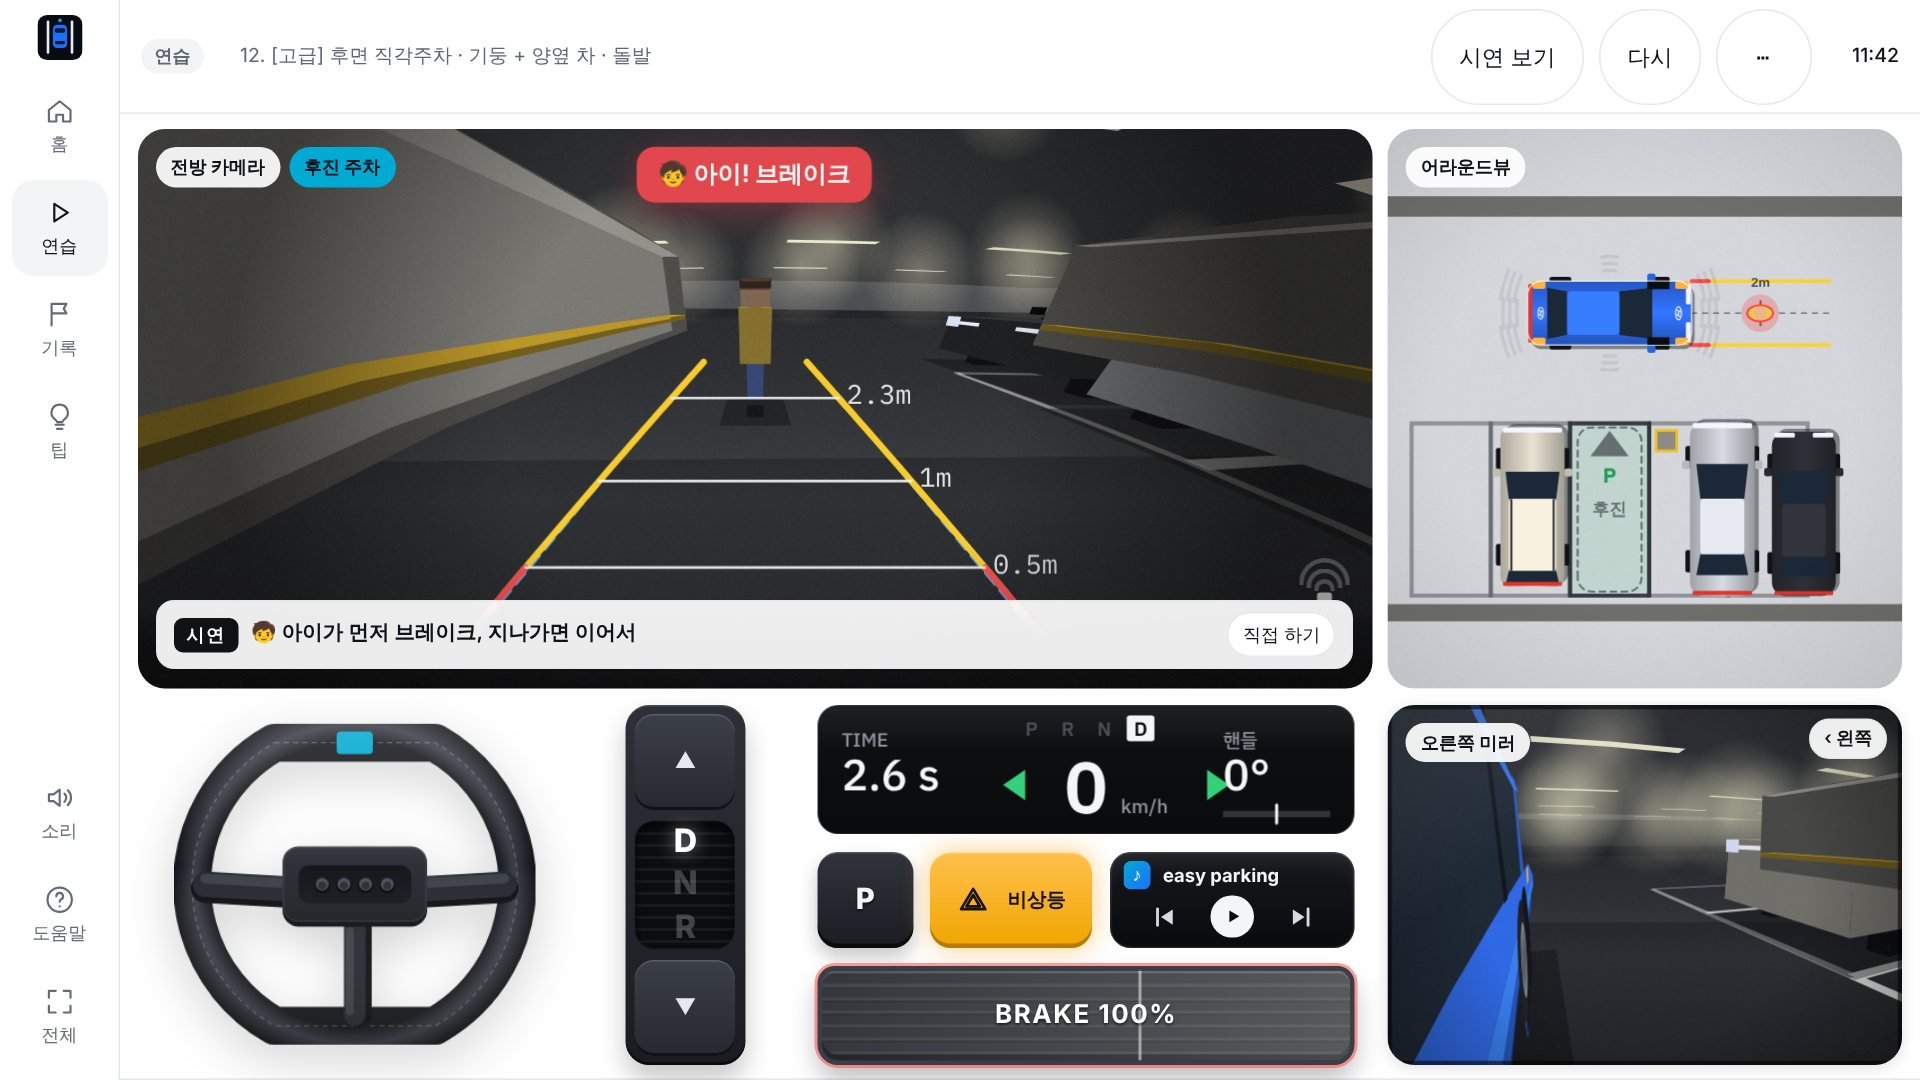
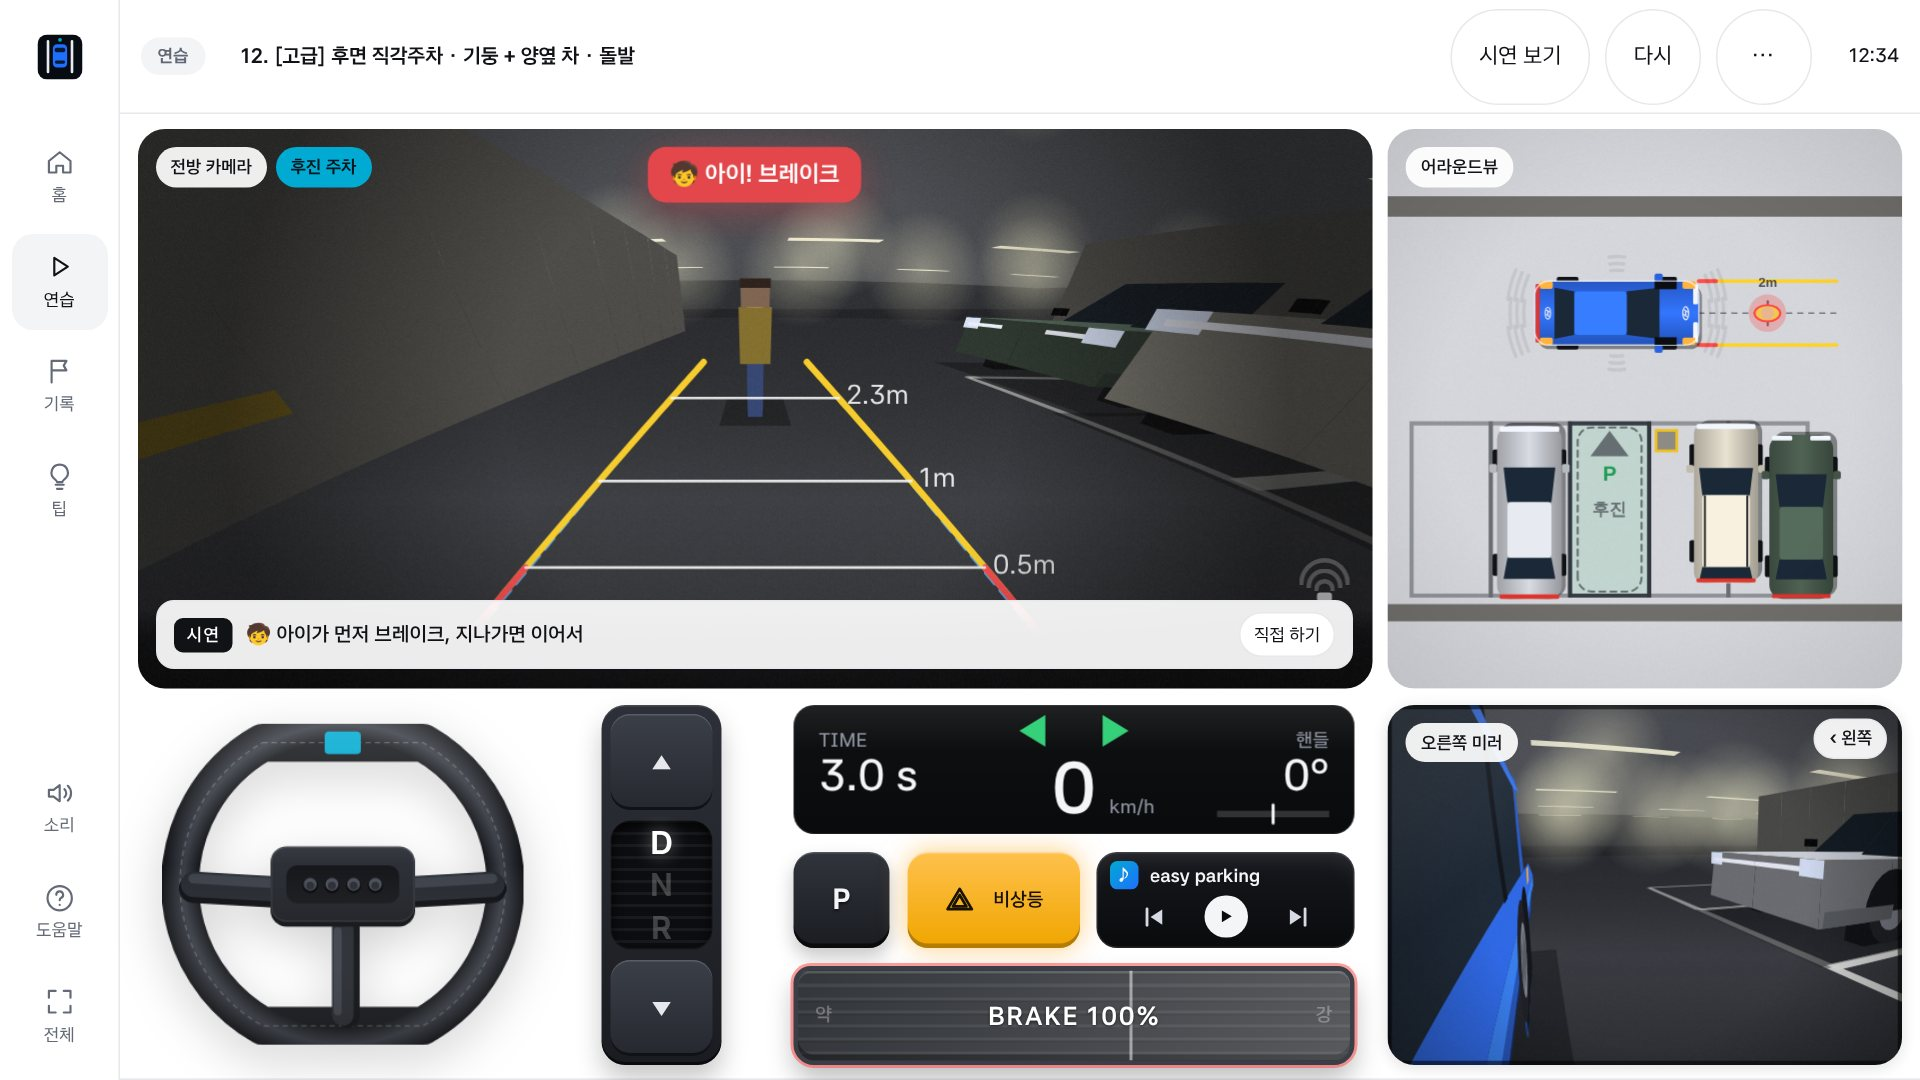
렌더링 다시 짬: 면 단위 정렬 · 전수 점검 스크립트 · 소개 페이지 첫 섹션 잘림
- 카메라·미러 3D: 차·벽·연석·기둥·사람의 모든 면을 모아 먼 것부터 그림(물체 중심 거리로 하나씩 그리던 방식이
  벽 뚫림·투시·떠다니는 바퀴를 낳았다), 긴 면은 1.2 m 조각, 면 위에 붙는 램프·바퀴·띠는 앞으로 보정, 보이는 면만
- tests/render-sweep.cjs: 15 스테이지 시연을 4 시점씩 찍어 모음 그림(고칠 때마다 사람이 먼저 본다)
- 소개 페이지: 히어로를 가로로만 잘라 목업 아래·칩이 잘리지 않게, 폰 가로 넘침(보행자 길) 막음
- 사진 6장 · 회색 후방카메라를 새 렌더링으로 다시 찍음

Claude-Session: https://claude.ai/code/session_01FzT5JMZgnQT3zngYysKg7k

diff --git a/site/preview/view.js b/site/preview/view.js
@@ -49,17 +49,21 @@
           if (fa >= 0) out.push(a); if ((fa >= 0) !== (fb >= 0)) { const t = fa / (fa - fb); out.push([a[0] + (b[0] - a[0]) * t, a[1] + (b[1] - a[1]) * t, a[2] + (b[2] - a[2]) * t]); } } }
       return out; }
     /** 잘린 다각형을 화면으로: 변을 카메라 좌표에서 잘게 나눠 하나씩 휘게(어안) 옮긴다 — 꼭짓점만 옮기고 곧은 선으로 이으면 가까운 차가 쐐기처럼 찢어진다(PM 2026-10-28 "자동차 렌더링 개판") */
-    proj(cl) { const out = []; for (let i = 0; i < cl.length; i++) { const a = cl[i], b = cl[(i + 1) % cl.length]; out.push(this.toScreen(a));
+    proj(cl) { const out = []; out.d = cl.length ? cl.reduce((s, p) => s + p[2], 0) / cl.length : 0; for (let i = 0; i < cl.length; i++) { const a = cl[i], b = cl[(i + 1) % cl.length]; out.push(this.toScreen(a));
         const len = Math.hypot(b[0] - a[0], b[1] - a[1], b[2] - a[2]), dmin = Math.max(this.P.near, Math.min(a[2], b[2])), n = Math.min(32, Math.max(1, Math.ceil(len / (dmin * 0.2))));
         for (let j = 1; j < n; j++) { const t = j / n; out.push(this.toScreen([a[0] + (b[0] - a[0]) * t, a[1] + (b[1] - a[1]) * t, a[2] + (b[2] - a[2]) * t])); } } return out; }
     poly(pts, z, sub) { const w = []; const m = sub || 6;
       for (let i = 0; i < pts.length; i++) { const a = pts[i], b = pts[(i + 1) % pts.length]; for (let j = 0; j < m; j++) { const t = j / m; w.push([a[0] + (b[0] - a[0]) * t, a[1] + (b[1] - a[1]) * t]); } }
       return this.proj(this.clipNear(w.map(p => this.toCam(p, z)))); }
-    quad(a, b, za, zb) { const w = []; const m = 6; for (let j = 0; j <= m; j++) { const t = j / m; w.push([a[0] + (b[0] - a[0]) * t, a[1] + (b[1] - a[1]) * t]); }
+    quad(a, b, za, zb) { const L = Math.hypot(b[0] - a[0], b[1] - a[1]), n = BUF ? Math.ceil(L / 1.2) : 1;
+      if (n > 1) { const out = []; out.parts = []; for (let k = 0; k < n; k++) { const t0 = k / n, t1 = (k + 1) / n, ip = t => [a[0] + (b[0] - a[0]) * t, a[1] + (b[1] - a[1]) * t]; const sv = BUF; BUF = null; const p = this.quad(ip(t0), ip(t1), za, zb); BUF = sv; out.parts.push(p); } return out; }
+      const w = []; const m = 6; for (let j = 0; j <= m; j++) { const t = j / m; w.push([a[0] + (b[0] - a[0]) * t, a[1] + (b[1] - a[1]) * t]); }
       const cam = w.map(p => this.toCam(p, za)).concat(w.slice().reverse().map(p => this.toCam(p, zb)));
       return this.proj(this.clipNear(cam)); }
     /** 아래 변 a→b(높이 za) 와 위 변 c→d(높이 zb) 가 다른 사각형 — 캐빈 유리처럼 기운 면 */
-    quad2(a, b, za, c, d, zb) { const m = 6, lo = [], hi = []; for (let j = 0; j <= m; j++) { const t = j / m; lo.push([a[0] + (b[0] - a[0]) * t, a[1] + (b[1] - a[1]) * t]); hi.push([c[0] + (d[0] - c[0]) * t, c[1] + (d[1] - c[1]) * t]); }
+    quad2(a, b, za, c, d, zb) { const L = Math.hypot(b[0] - a[0], b[1] - a[1]), n = BUF ? Math.ceil(L / 1.2) : 1;
+      if (n > 1) { const out = []; out.parts = []; const ip = (p, q, t) => [p[0] + (q[0] - p[0]) * t, p[1] + (q[1] - p[1]) * t]; for (let k = 0; k < n; k++) { const t0 = k / n, t1 = (k + 1) / n; const sv = BUF; BUF = null; out.parts.push(this.quad2(ip(a, b, t0), ip(a, b, t1), za, ip(c, d, t0), ip(c, d, t1), zb)); BUF = sv; } return out; }
+      const m = 6, lo = [], hi = []; for (let j = 0; j <= m; j++) { const t = j / m; lo.push([a[0] + (b[0] - a[0]) * t, a[1] + (b[1] - a[1]) * t]); hi.push([c[0] + (d[0] - c[0]) * t, c[1] + (d[1] - c[1]) * t]); }
       return this.proj(this.clipNear(lo.map(p => this.toCam(p, za)).concat(hi.reverse().map(p => this.toCam(p, zb))))); }
     path(pts, z) { const n = this.P.near, cam = pts.map(p => this.toCam(p, z || 0)), segs = []; for (let i = 1; i < cam.length; i++) { const a = cam[i - 1], b = cam[i], ia = a[2] >= n, ib = b[2] >= n; if (!ia && !ib) continue;
       let p = a, q = b; if (ia !== ib) { const t = (n - a[2]) / (b[2] - a[2]); const m = [a[0] + (b[0] - a[0]) * t, a[1] + (b[1] - a[1]) * t, n]; if (ia) q = m; else p = m; } segs.push([this.toScreen(p), this.toScreen(q)]); } return segs; }
@@ -70,7 +74,12 @@
       const d = -(nx * mx + ny * my) / (len * ml); return 0.55 + 0.45 * Math.max(0, d); }
   }
 
-  function fillPoly(g, pts, style, stroke, lw) { if (pts.length < 3) return; g.beginPath(); pts.forEach((p, i) => i ? g.lineTo(p[0], p[1]) : g.moveTo(p[0], p[1])); g.closePath(); if (style) { g.fillStyle = style; g.fill(); } if (stroke) { g.strokeStyle = stroke; g.lineWidth = lw || 1; g.stroke(); } }
+  // 면 단위 정렬(PM 2026-10-28 "처음부터 다시 — 면 단위 정렬"): 차·벽·기둥·사람의 모든 면을 BUF 에 모았다가 먼 것부터 그린다.
+  //   물체 하나씩 중심 거리로 그리던 방식은 벽 뚫림·투시·떠다니는 바퀴를 낳았다. 긴 면은 1.2 m 조각으로 잘라 순서를 지키고, 면 위에 붙는 것(램프·바퀴·띠)은 BIAS 만큼 앞으로.
+  let BUF = null, BIAS = 0;
+  function flushBuf(g) { const b = BUF; BUF = null; if (!b) return; b.sort((p, q) => q.d - p.d); for (const e of b) fillPoly(g, e.pts, e.style, e.stroke, e.lw); }
+  function fillPoly(g, pts, style, stroke, lw) { if (BUF && pts.parts) { for (const p of pts.parts) fillPoly(g, p, style, stroke, lw); return; }
+    if (pts.length < 3) return; if (BUF && pts.d !== undefined) { BUF.push({ pts: pts.slice(), style, stroke, lw, d: pts.d - BIAS }); return; } g.beginPath(); pts.forEach((p, i) => i ? g.lineTo(p[0], p[1]) : g.moveTo(p[0], p[1])); g.closePath(); if (style) { g.fillStyle = style; g.fill(); } if (stroke) { g.strokeStyle = stroke; g.lineWidth = lw || 1; g.stroke(); } }
   function strokeSegs(g, segs, style, lw, dash) { if (!segs.length) return; g.beginPath(); segs.forEach(([a, b]) => { g.moveTo(a[0], a[1]); g.lineTo(b[0], b[1]); }); g.setLineDash(dash || []); g.strokeStyle = style; g.lineWidth = lw; g.lineCap = "round"; g.stroke(); g.setLineDash([]); }
 
   function drawBox(cam, g, b, z0, z1, baseHex, topHex, S) {
@@ -91,6 +100,7 @@
     const cs = S.corners(b), faces = [0, 1, 2, 3].map(i => [cs[i], cs[(i + 1) % 4]]).sort((f1, f2) => (cam.depth(f2[0]) + cam.depth(f2[1])) - (cam.depth(f1[0]) + cam.depth(f1[1])));
     const top = S.corners(S.obb(b.c, b.h, b.hx * 0.99, b.hy * 0.96));
     for (const [a, c] of faces) { const i = cs.indexOf(a); if (cam.sees(b.c, a, c)) fillPoly(g, cam.quad2(a, c, 0.25, top[i], top[(i + 1) % 4], hoodH), shade(hex, cam.light(a, c))); }
+    BIAS = 0.3;   // 이 아래는 면 위에 붙는 것: 그 면보다 앞에
     // 옆구리가 보이면 바퀴·아치·문턱 그림자·도어 선(밋밋한 한 장이 '배'처럼 보이던 것, PM 2026-10-28)
     for (const dv of [1, -1]) { if (!cam.sees(b.c, at(1, dv), at(-1, dv))) continue; const P3 = pts => cam.proj(cam.clipNear(pts.map(([x, y, z]) => cam.toCam([x, y], z))));
       fillPoly(g, cam.quad2(at(0.98, dv * 1.0), at(-0.98, dv * 1.0), 0.25, at(0.98, dv * 1.01), at(-0.98, dv * 1.01), 0.4), shade(hex, 0.45));
@@ -99,6 +109,7 @@
         for (let i = 0; i <= 12; i++) { const t = i / 12 * PI; arch.push([...at(wc + Math.cos(t) * rr * 1.18, dv * 1.015), 0.34 + Math.sin(t) * 0.42]); }
         for (let i = 0; i < 16; i++) { const t = i / 16 * 2 * PI; tire.push([...at(wc + Math.cos(t) * rr, dv * 1.02), 0.34 + Math.sin(t) * 0.34]); rim.push([...at(wc + Math.cos(t) * rr * 0.6, dv * 1.025), 0.34 + Math.sin(t) * 0.2]); }
         fillPoly(g, P3(arch), "#0d0e11"); fillPoly(g, P3(tire), "#1b1c20"); fillPoly(g, P3(rim), "#7d8189"); } }
+    BIAS = 0;
     if (cam.P.h > hoodH) fillPoly(g, cam.poly(top, hoodH, 3), shade(hex, 1.08));   // 윗면은 카메라보다 낮을 때만(아래에서 올려다본 면이 쐐기처럼 덮던 것)
     // 캐빈: 아래 변(보닛 높이)은 넓고, 위 변(지붕)은 앞뒤로 줄어든다 → 앞유리·뒷유리 경사
     const cab = suv ? { f0: 0.22, r0: -0.98, f1: 0.02, r1: -0.86, w0: 0.9, w1: 0.8 } : { f0: 0.3, r0: -0.72, f1: 0.02, r1: -0.48, w0: 0.88, w1: 0.74 };
@@ -109,11 +120,11 @@
     if (suv) for (const dv of [0.62, -0.62]) fillPoly(g, cam.quad(at(cab.f1 - 0.02, dv), at(cab.r1 + 0.02, dv), roofH, roofH + 0.05), "#2a2c31");   // 루프랙
     // 램프: 앞 = 폭 전체 가로 한 줄(심리스 호라이즌 램프, 아반떼는 두 토막) · 뒤 = 빨간 띠, 비상등이면 양 끝 주황
     const barZ = hoodH - 0.12, segs = model === "AVANTE" ? [[-0.92, -0.3], [0.3, 0.92]] : [[-0.92, 0.92]];
-    const seeF = cam.sees(b.c, at(1, -1), at(1, 1)), seeR = cam.sees(b.c, at(-1, 1), at(-1, -1));
+    const seeF = cam.sees(b.c, at(1, -1), at(1, 1)), seeR = cam.sees(b.c, at(-1, 1), at(-1, -1)); BIAS = 0.3;
     if (seeF) for (const [s0, s1] of segs) fillPoly(g, cam.quad(at(1.0, s0), at(1.0, s1), barZ, barZ + 0.05), "#f4f6ff");
     if (seeR) fillPoly(g, cam.quad(at(-1.0, -0.92), at(-1.0, 0.92), barZ + 0.02, barZ + 0.09), "#e0342c");
     for (const side of [1, -1]) for (const dv of [0.86, -0.86]) { if (side === 1 ? !seeF : !seeR) continue; const c = at(side, dv); const a = [c[0] - v[0] * 0.14, c[1] - v[1] * 0.14], d = [c[0] + v[0] * 0.14, c[1] + v[1] * 0.14];
-      fillPoly(g, cam.quad(a, d, barZ - 0.04, barZ + 0.12), blink ? "#ffb340" : side === 1 ? "#dfe9ff" : "#c8221c"); }
+      fillPoly(g, cam.quad(a, d, barZ - 0.04, barZ + 0.12), blink ? "#ffb340" : side === 1 ? "#dfe9ff" : "#c8221c"); } BIAS = 0;
     for (const dv of [1.0, -1.0]) { const c = at(cab.f0 - 0.04, dv * 1.06); drawBox(cam, g, S.obb(c, b.h, 0.08, 0.06), hoodH + 0.08, hoodH + 0.2, shade(hex, 0.9), shade(hex, 1.05), S);
       if (blink) fillPoly(g, cam.quad(at(0.3, dv), at(0.45, dv), hoodH - 0.2, hoodH - 0.1), "#ffb340"); }
   }
@@ -155,17 +166,18 @@
   }
   function drawPillar(cam, g, b, S) {
     drawBox(cam, g, b, 0.0, 2.6, "#9a978f", "#a7a49c", S);
-    const cs = S.corners(b);
-    for (let i = 0; i < 4; i++) { const a = cs[i], c = cs[(i + 1) % 4]; if (cam.depth(a) < 0 && cam.depth(c) < 0) continue;
+    const cs = S.corners(b); BIAS = 0.2;
+    for (let i = 0; i < 4; i++) { const a = cs[i], c = cs[(i + 1) % 4]; if (!cam.sees(b.c, a, c)) continue;
       fillPoly(g, cam.quad(a, c, 0.25, 1.05), shade("#f0c020", cam.light(a, c)));
       for (let k = 0; k < 3; k++) { const t0 = k / 3 + 0.08, t1 = k / 3 + 0.2; const p0 = [a[0] + (c[0] - a[0]) * t0, a[1] + (c[1] - a[1]) * t0], p1 = [a[0] + (c[0] - a[0]) * t1, a[1] + (c[1] - a[1]) * t1];
         fillPoly(g, cam.quad(p0, p1, 0.25, 1.05), shade("#15151a", cam.light(a, c))); }
     }
+    BIAS = 0;
   }
   function drawWall(cam, g, o, S) {
     if (o.label === "연석") { drawBox(cam, g, o.b, 0.0, 0.15, "#8b8d93", "#9a9ca3", S); return; }
     drawBox(cam, g, o.b, 0.0, 2.6, "#86847d", "#8f8d86", S);
-    const cs = S.corners(o.b); for (let i = 0; i < 4; i++) { const a = cs[i], c = cs[(i + 1) % 4]; fillPoly(g, cam.quad(a, c, 0.45, 0.6), shade("#e8b92a", cam.light(a, c) * 0.9)); }
+    const cs = S.corners(o.b); BIAS = 0.2; for (let i = 0; i < 4; i++) { const a = cs[i], c = cs[(i + 1) % 4]; if (cam.sees(o.b.c, a, c)) fillPoly(g, cam.quad(a, c, 0.45, 0.6), shade("#e8b92a", cam.light(a, c) * 0.9)); } BIAS = 0;
   }
   /** 돌발 인물·카트(PM 2026-10-27 "글로만 말고 마인크래프트 사람처럼이라도"): 머리·몸통·팔 둘·다리 둘 상자, 걷는 동안 팔다리가 번갈아 흔들린다. 카트 = 바구니 + 손잡이 + 바퀴 */
   function drawHazard3D(cam, g, hz, pose, S) {
@@ -220,11 +232,11 @@
     { const u = [Math.cos(sc.slot.h), Math.sin(sc.slot.h)], c = [sc.slot.c[0] + u[0] * (sc.slot.hx * 0.4), sc.slot.c[1] + u[1] * (sc.slot.hx * 0.4)]; fillPoly(g, cam.poly(S.corners(S.obb(c, sc.slot.h, 0.35, 0.25)), 0.004, 3), "rgba(58,209,124,.55)"); }
     const objs = sc.obs.slice().sort((a, b) => cam.depth(b.b.c) - cam.depth(a.b.c));
     // 렌즈가 다른 차에 맞닿으면(35 cm 안) 그 차는 그리지 않고 화면을 그 차 면으로 덮는다 — 카메라가 차 모양 안쪽에 들어가 찢어진 다각형이 나오던 것(PM 2026-10-28)
-    let touch = null;
+    let touch = null; BUF = [];
     for (const o of objs) { if (o.car && S.distPoint(o.b, cam.c) < 0.35) { touch = o; continue; } if (o.car) drawCar3D(cam, g, o.b, o.color || "#8a8d94", S, false, o.model); else if (o.label === "기둥") drawPillar(cam, g, o.b, S); else drawWall(cam, g, o, S); }
-    if (touch) { const hex = touch.color || "#8a8d94", tg = g.createLinearGradient(0, 0, W * 0.3, H); tg.addColorStop(0, shade(hex, 0.7)); tg.addColorStop(0.55, shade(hex, 0.45)); tg.addColorStop(1, shade(hex, 0.3)); g.fillStyle = tg; g.fillRect(0, 0, W, H);
-      const hl = g.createLinearGradient(0, H * 0.2, 0, H * 0.5); hl.addColorStop(0, "rgba(255,255,255,0)"); hl.addColorStop(0.5, "rgba(255,255,255,.12)"); hl.addColorStop(1, "rgba(255,255,255,0)"); g.fillStyle = hl; g.fillRect(0, H * 0.2, W, H * 0.3); }
     if (snap.hazard) drawHazard3D(cam, g, snap.hazard, snap.pose, S);
+    flushBuf(g); if (touch) { const hex = touch.color || "#8a8d94", tg = g.createLinearGradient(0, 0, W * 0.3, H); tg.addColorStop(0, shade(hex, 0.7)); tg.addColorStop(0.55, shade(hex, 0.45)); tg.addColorStop(1, shade(hex, 0.3)); g.fillStyle = tg; g.fillRect(0, 0, W, H);
+      const hl = g.createLinearGradient(0, H * 0.2, 0, H * 0.5); hl.addColorStop(0, "rgba(255,255,255,0)"); hl.addColorStop(0.5, "rgba(255,255,255,.12)"); hl.addColorStop(1, "rgba(255,255,255,0)"); g.fillStyle = hl; g.fillRect(0, H * 0.2, W, H * 0.3); }
     if (opts.ownSide) drawOwnSide(cam, g, snap.body, "#2f6df6", S, opts.blink, spec.key, opts.ownSide); else if (opts.ownBody) drawCar3D(cam, g, snap.body, "#2f6df6", S, opts.blink, spec.key);
   }
 

diff --git a/site/index.html b/site/index.html
@@ -184,7 +184,7 @@ footer a{color:var(--fg2)}
 .glass{background:color-mix(in srgb,var(--card) 55%,transparent);backdrop-filter:blur(14px) saturate(1.5);-webkit-backdrop-filter:blur(14px) saturate(1.5);border:1px solid rgba(255,255,255,.6);box-shadow:0 8px 30px rgba(15,23,32,.10),inset 0 1px 0 rgba(255,255,255,.6)}
 @media (prefers-color-scheme:dark){.glass{border-color:rgba(255,255,255,.12);box-shadow:0 8px 30px rgba(0,0,0,.4),inset 0 1px 0 rgba(255,255,255,.08)}}
 /* 히어로: 떠다니는 빛 · 유리 알약 · 타이핑 */
-.hero{position:relative;overflow:hidden}
+.hero{position:relative;overflow-x:clip;overflow-y:visible;padding-bottom:clamp(40px,6vw,88px)}   /* 넘치면 자르기를 빼서 목업 아래·칩이 잘리지 않게(PM 2026-10-28), 가로 넘침은 body 가 막는다 */
 .hero .wrap{position:relative}
 .glow{position:absolute;border-radius:50%;filter:blur(60px);opacity:.55;pointer-events:none;z-index:0}
 .glow.g1{width:560px;height:560px;left:-180px;top:-140px;background:radial-gradient(circle,#00AAD2 0,transparent 65%);opacity:.35}
@@ -276,7 +276,7 @@ body{font-family:var(--font)}
 .f .ill .mv.keep{transform:translate(95px,52px)}.f.on .ill .mv.keep{animation:keepIn 2.4s ease-in-out infinite}
 @keyframes keepIn{0%{transform:translate(95px,20px)}65%,100%{transform:translate(95px,52px)}}
 /* 4 스테이지: 사람이 스크롤에 맞춰 오른쪽에서 걸어오다 멈춤 → 정지 알림 */
-.walkway{position:relative;height:clamp(70px,8vw,96px);margin:-10px 0 18px;overflow:visible}
+.walkway{position:relative;height:clamp(70px,8vw,96px);margin:-10px 0 18px;overflow-x:clip;overflow-y:visible}
 .walkway .ped{position:absolute;bottom:0;left:calc(var(--wp,0) * 1%);display:flex;flex-direction:column;align-items:center;gap:6px;will-change:left}
 .walkway .ped span{font-size:clamp(40px,4.4vw,58px);line-height:1;display:block;animation:step .5s ease-in-out infinite alternate}
 .walkway.stopped .ped span{animation:none}
